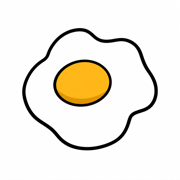
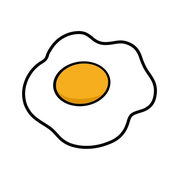
补齐午逅网页及快捷方式图标

diff --git a/frontend/index.html b/frontend/index.html
@@ -6,7 +6,10 @@
     <meta name="wuhou-order-submission-protocol" content="3" />
     <meta name="theme-color" content="#f7b91c" />
     <meta name="apple-mobile-web-app-title" content="午逅 Story" />
-    <link rel="apple-touch-icon" sizes="180x180" href="/apple-touch-icon.png" />
+    <link rel="icon" type="image/x-icon" sizes="16x16 32x32 48x48" href="/favicon.ico" />
+    <link rel="icon" type="image/png" sizes="192x192" href="/icons/wuhou-192.png" />
+    <link rel="apple-touch-icon" sizes="180x180" href="/apple-touch-icon.png?v=2" />
+    <link rel="manifest" href="/site-manifest.json" />
     <title>午逅 Story · 工作台</title>
   </head>
   <body><div id="root"></div><script type="module" src="/src/main.tsx"></script></body>

diff --git a/frontend/README.md b/frontend/README.md
@@ -18,11 +18,11 @@ npm run dev
 
 生产通过 HTTPS 同一站点提供静态文件和 /api 反向代理，保留 Cookie/Authorization，不缓冲 SSE。vite preview 仅预览静态产物。现有 Compose 运行后端和依赖，不自动构建或发布前端。当前仅支持单业务实例；代理超时、Secure Cookie 和真实手机需在部署站点验证。
 
-## iPhone 主屏幕图标
+## 网站和快捷方式图标
 
-Safari「添加到主屏幕」使用 `public/apple-touch-icon.png`（180 × 180 PNG），图案为白底煎蛋，默认名称为「午逅 Story」。图标链接和名称在 `index.html` 中声明，构建时图标复制到 `dist/` 根目录，须随前端静态文件一起发布；图标地址无需登录即可访问。
+浏览器标签页和收藏使用 `favicon.ico`（内含 16、32、48 像素图标）及 192 像素 PNG。iPhone 和 iPad 的 Safari「添加到主屏幕」使用 180 像素 `apple-touch-icon.png`。`site-manifest.json` 为支持 Web App 的浏览器提供 192、512 像素图标，以及供 Android 启动器和 macOS Safari Dock 裁切的 1024 像素图标。各尺寸均取自 `public/brand.jpg` 的原版煎蛋图案，快捷方式品牌名为「午逅 Story」。
 
-图标更新后，已有主屏幕入口可能继续使用 iOS 缓存。请删除旧入口，再用 Safari 打开站点并重新「添加到主屏幕」，核对预览图标和名称后添加。最终效果须在真实 iPhone 上验证。
+清单沿用当前页面作为默认打开地址，让客户保存填单链接时保留 `#/fill/` 路由。`index.html` 声明的图标和清单从 `public/` 复制到 `dist/`，随前端静态文件发布，无需登录即可访问。上线后可从工作台及客户填单页分别创建快捷方式，核对图标和打开地址。已有快捷方式若继续显示旧图标，可移除后从更新后的页面重新添加。
 
 ## 录单与可选识别
 
